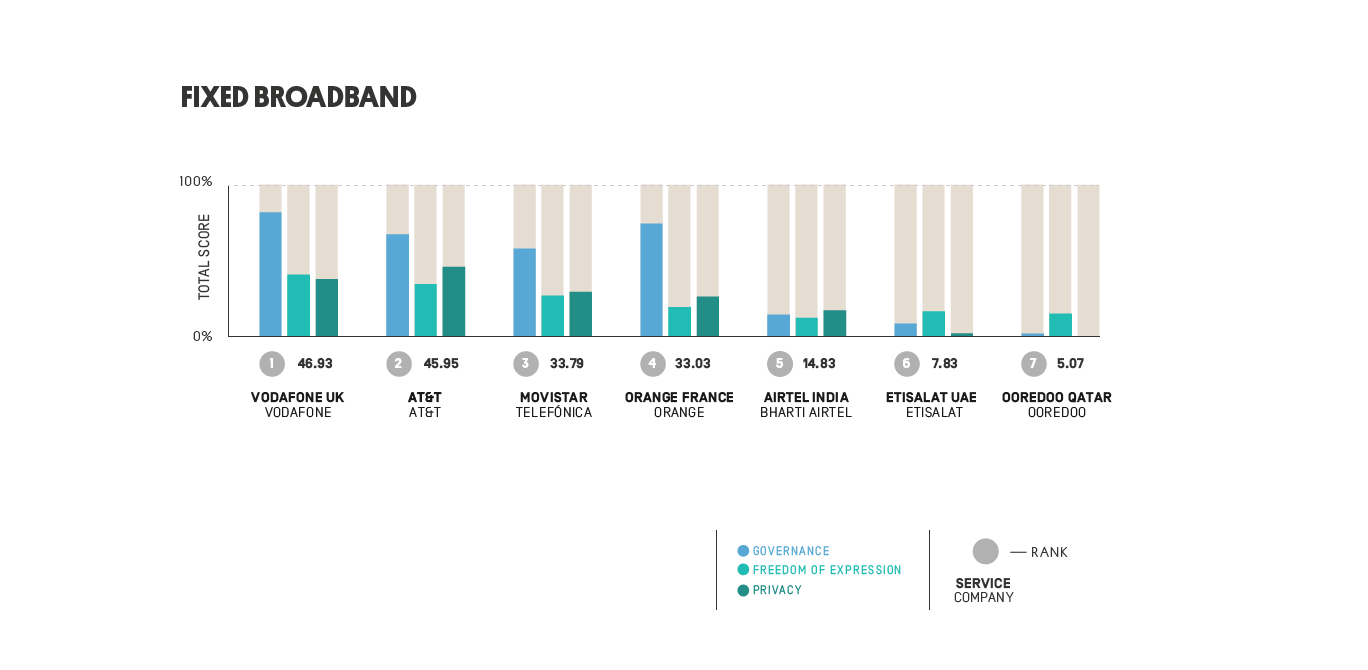
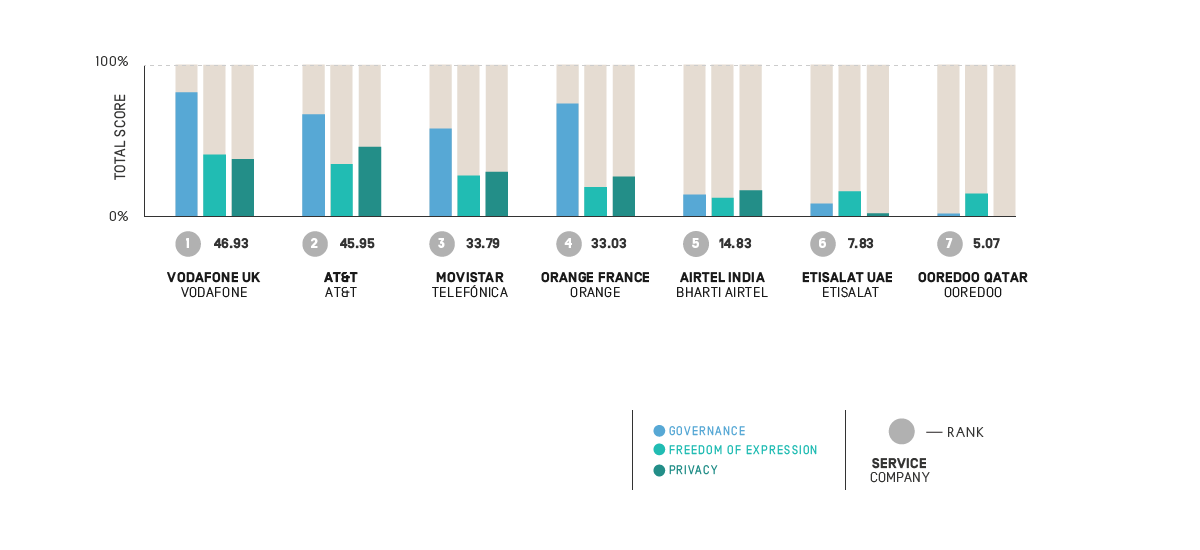
New images services

diff --git a/app/assets/styles/04-pages/_03-service.scss b/app/assets/styles/04-pages/_03-service.scss
@@ -24,52 +24,52 @@
 
 	.service-graph-content {
 	height: 600px;
-	@include bg-image(cover);	
+	@include bg-image(contain);	
 	}
 
 	&.cloudservices {
 		.service-graph-content {
-		background: url("../graphics/content/service_page_Cloud.png");
+		background-image: url("../graphics/content/service_page_Cloud.png");
 		}	
 	}
 	&.emailservice {
 		.service-graph-content {
-		background: url("../graphics/content/service_page_Email.png");
+		background-image: url("../graphics/content/service_page_Email.png");
 		}	
 	}
 	&.fixedbroadband {
 		.service-graph-content {
-		background: url("../graphics/content/service_page_Fixed_Broad_band.png");
+		background-image: url("../graphics/content/service_page_Fixed_Broad_band.png");
 		}	
 	}
 	&.messagingvoip {
 		.service-graph-content {
-		background: url("../graphics/content/service_page_Message_and_VOIP.png");
+		background-image: url("../graphics/content/service_page_Message_and_VOIP.png");
 		}	
 	}
 	&.mobileeco {
 		.service-graph-content {
-		background: url("../graphics/content/service_page_mobile_Eco.png");
+		background-image: url("../graphics/content/service_page_mobile_Eco.png");
 		}	
 	}
 	&.prepostpaidmobile {
 		.service-graph-content {
-		background: url("../graphics/content/service_page_Pre_and_post_paid.png");
+		background-image: url("../graphics/content/service_page_Pre_and_post_paid.png");
 		}	
 	}
 	&.searchservice {
 		.service-graph-content {
-		background: url("../graphics/content/service_page_Search.png");
+		background-image: url("../graphics/content/service_page_Search.png");
 		}	
 	}
 	&.socialnetworkblog {
 		.service-graph-content {
-		background: url("../graphics/content/service_page_Social_Network.png");
+		background-image: url("../graphics/content/service_page_Social_Network.png");
 		}	
 	}
 	&.videophoto {
 		.service-graph-content {
-		background: url("../graphics/content/service_page_Video_and_Photo.png");
+		background-image: url("../graphics/content/service_page_Video_and_Photo.png");
 		}	
 	}					
 
